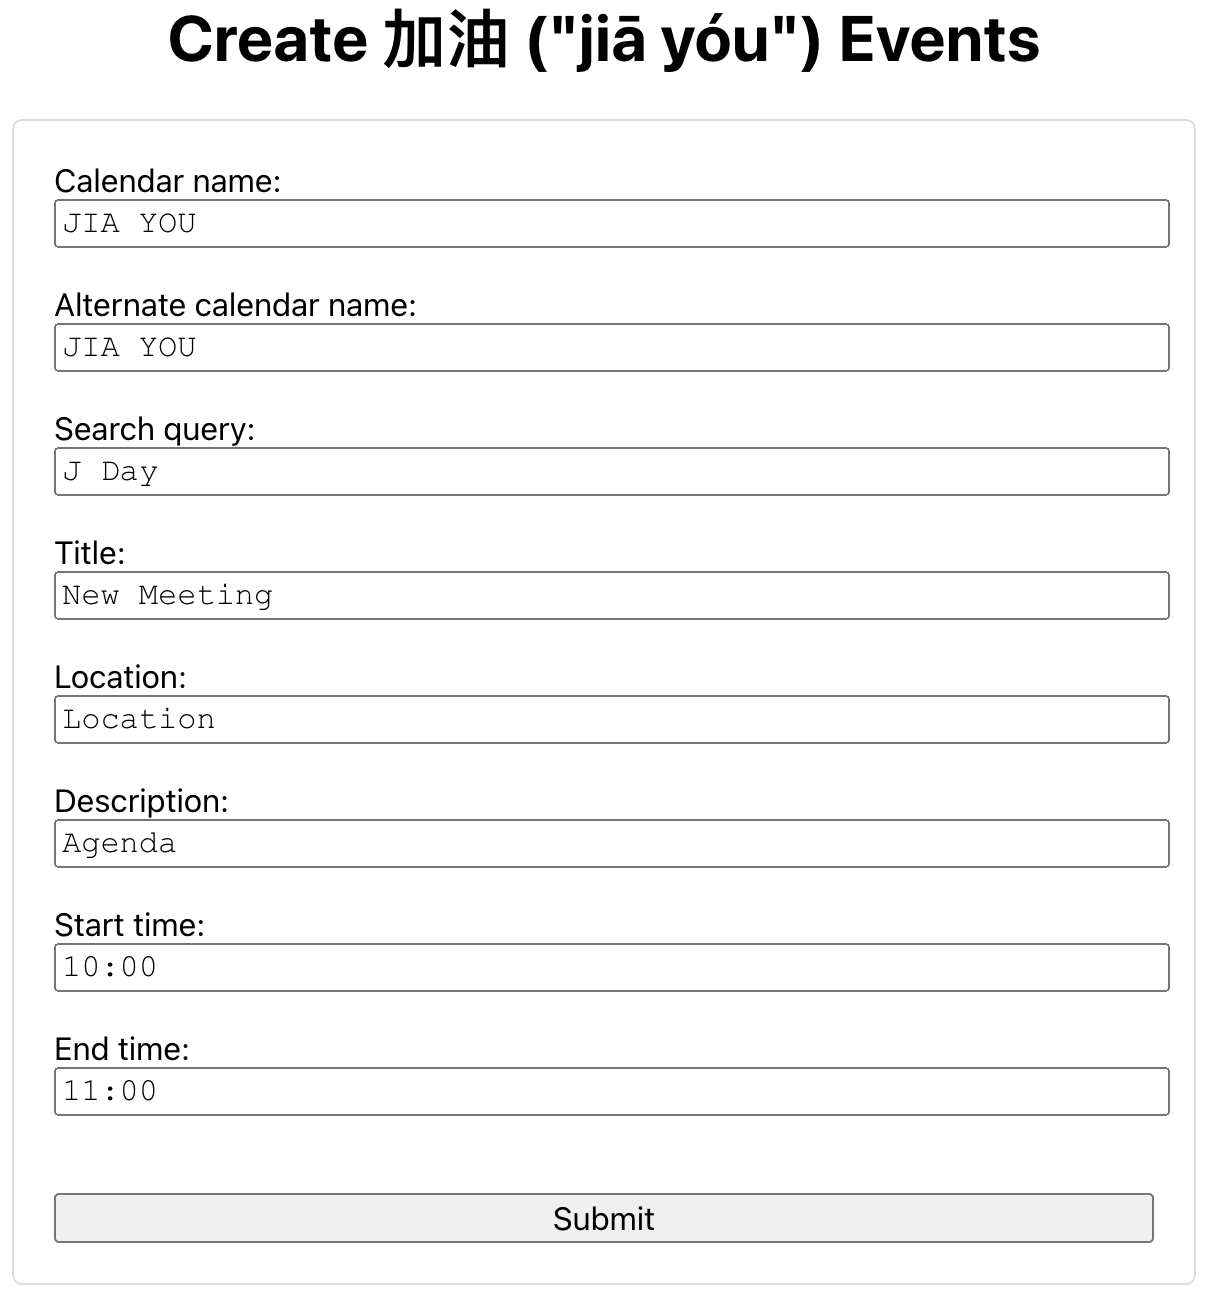
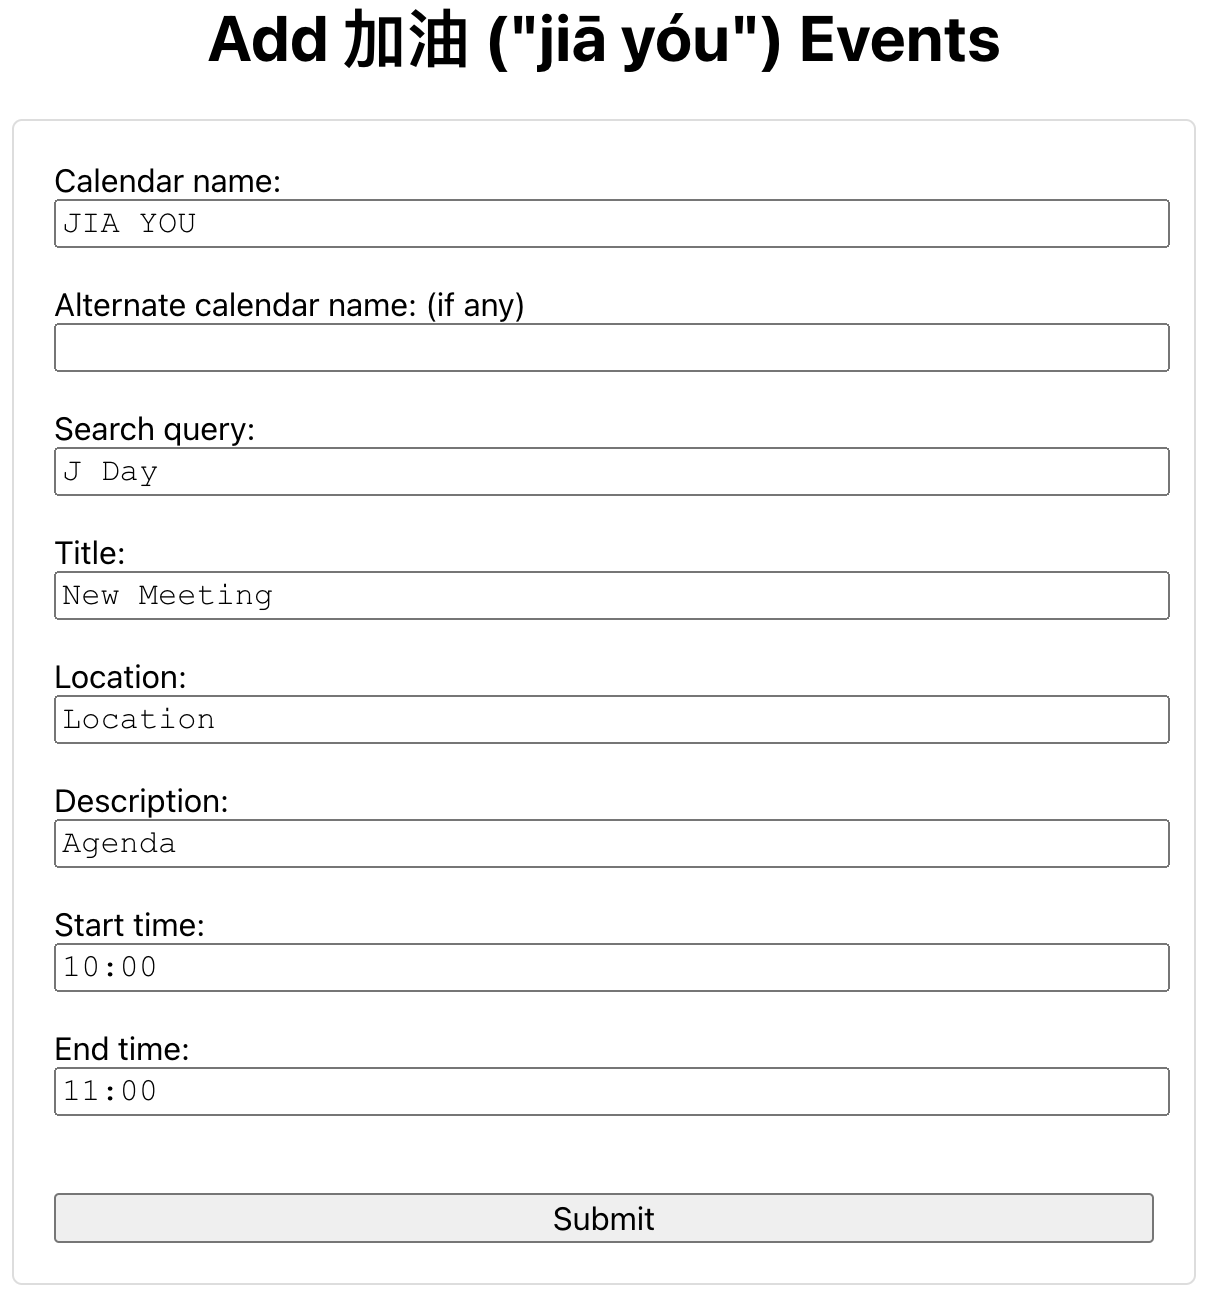
permit null alternate calendar

diff --git a/Index.html b/Index.html
@@ -29,16 +29,16 @@
     </style>
   </head>
   <body>
-    <h1><center>Create 加油 ("jiā yóu") Events</center></h1>
+    <h1><center>Add 加油 ("jiā yóu") Events</center></h1>
     <form id="calendarForm">
       <label for="calendarName">Calendar name:</label>
       <input type="text" id="calendarName" name="calendarName" value="JIA YOU" required>
       <!-- Must name it differently from the owner name -->
       </br>
 
-      <label for="calendarNameAlt">Alternate calendar name:</label>
-      <input type="text" id="calendarNameAlt" name="calendarNameAlt" value="JIA YOU" required>
-      <!-- Change name to create events on an alternate calendar, same naming convention applies -->
+      <label for="calendarNameAlt">Alternate calendar name: (if any)</label>
+      <input type="text" id="calendarNameAlt" name="calendarNameAlt">
+      <!-- Input name to create events on an alternate calendar, same naming convention applies -->
       </br>
 
       <label for="query">Search query:</label>
